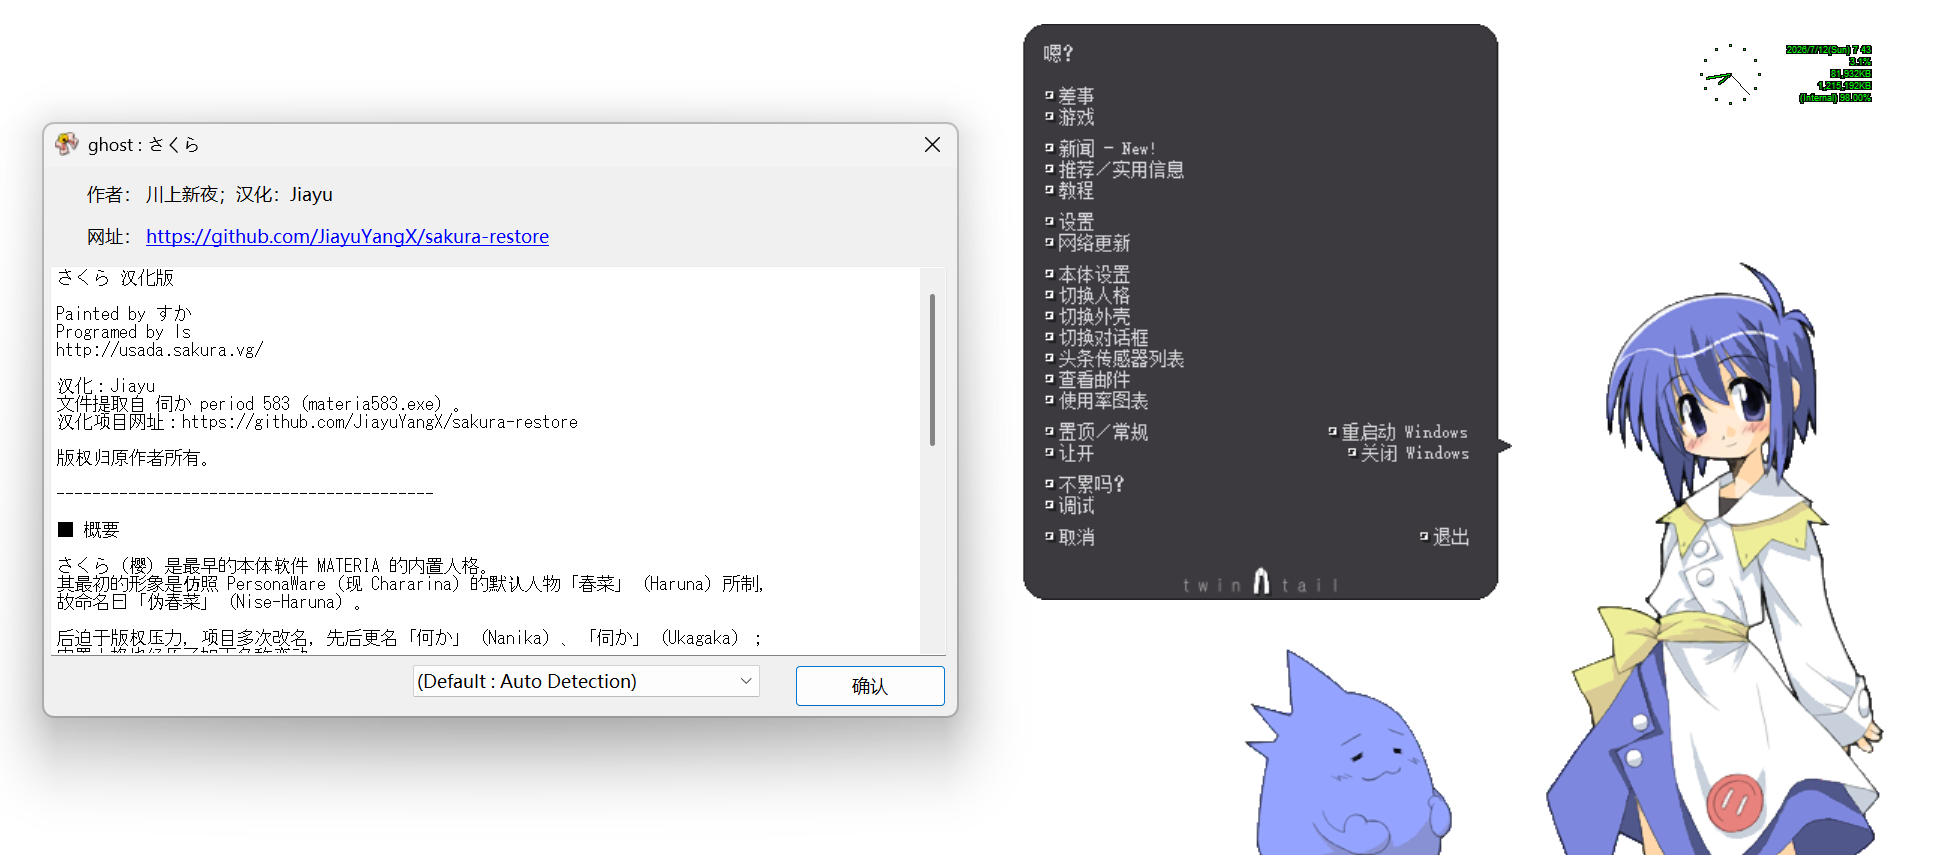
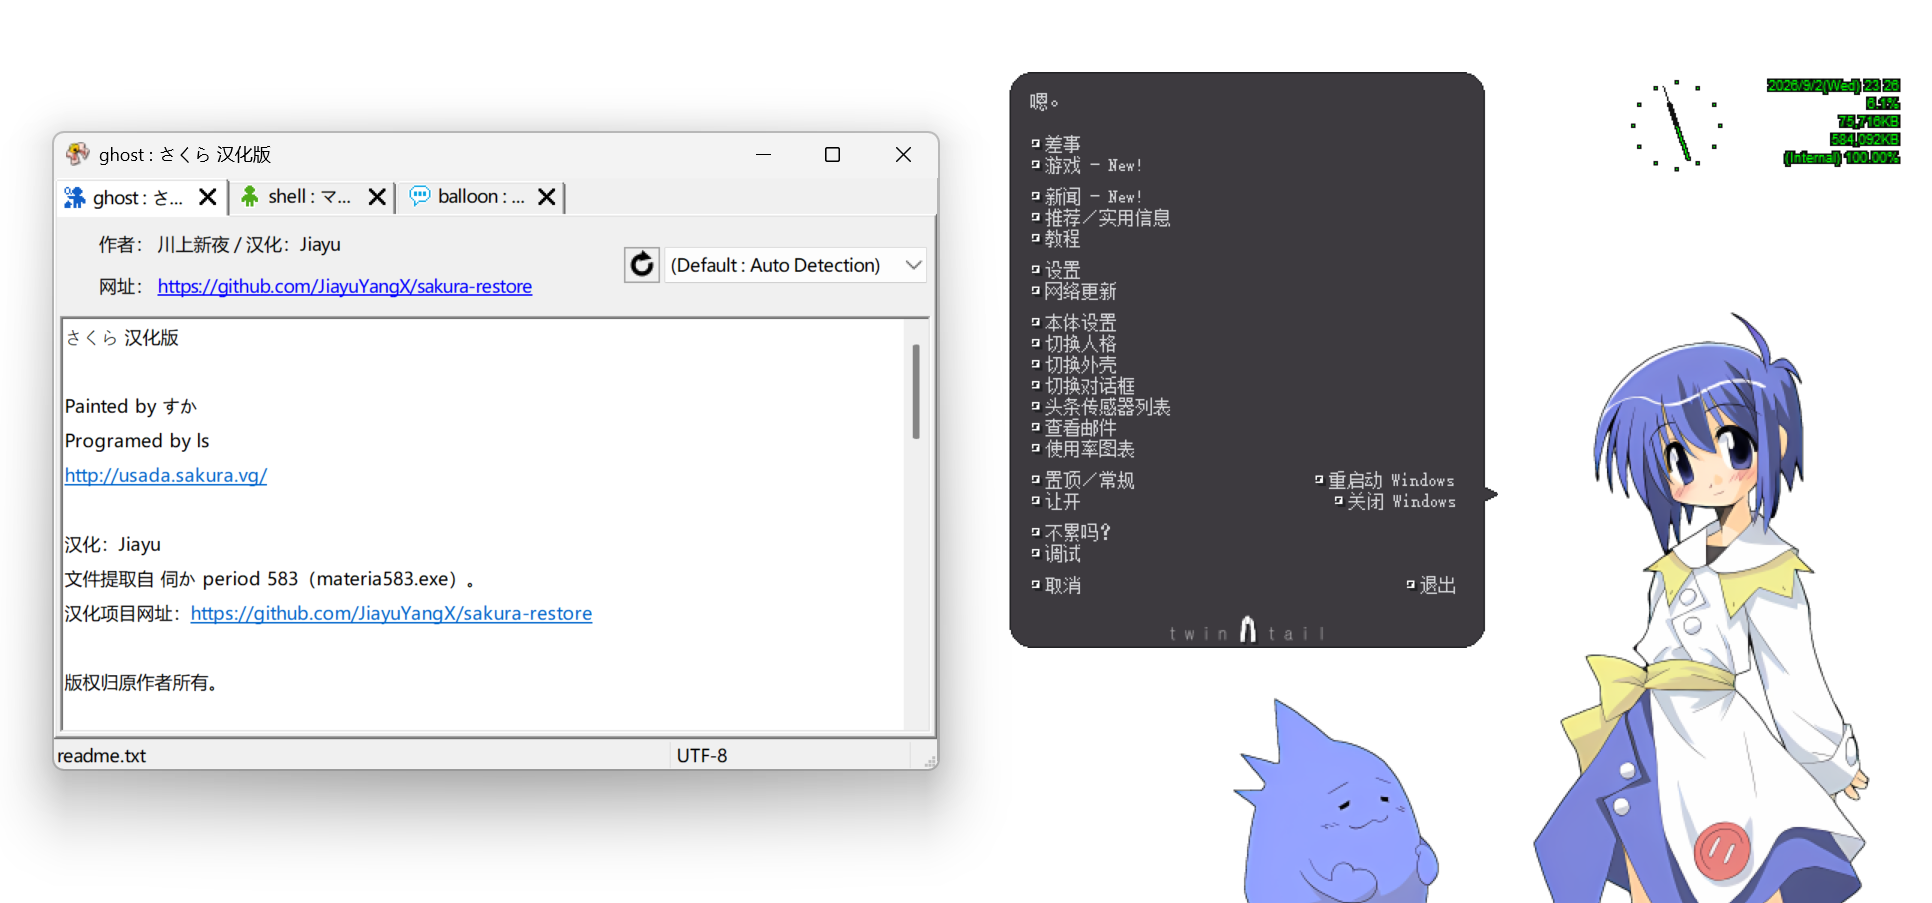
更新自述文档及图片

diff --git a/README.md b/README.md
@@ -4,7 +4,8 @@
 
 ![示意图](pic.png)
 
-人格文件请见 [ghost](https://github.com/JiayuYangX/sakura-restore/tree/ghost) 分支。
+人格文件请见 [ghost](https://github.com/JiayuYangX/sakura-restore/tree/ghost) 分支；
+外壳图片处理见 [shell](https://github.com/JiayuYangX/sakura-restore/tree/shell) 分支。
 
 ## 安装方法
 
@@ -20,13 +21,26 @@
 文件提取自 [伺か period 583](http://usada.sakura.vg/contents/files/materia583.exe)。
 原配布链接：<http://usada.sakura.vg/>
 
+### 汉化
+
 该人格的所有文本都被硬编码进 SHIORI（`first.dll`）中，其中绝大部分以明文形式存储。对话和菜单、提示文本位于 CODE 段，内置图形界面文本位于 rsrc 段。原来使用的 SJIS 编码文本在中文系统环境中运行会显示乱码，故直接将其替换为 GBK 译文（字节长度不超过原文）。
 
 然而仍有如环境变量等少数文本以自定义压缩格式存储在 rsrc 段的 AITXT 中。由于无法获取其压缩/解压算法，本项目采用翻译器接口（`makoto.dll`，遵循 MAKOTO/2.0 协议）在 SHIORI 返回该部分文本后对其 SJIS 字节进行匹配替换。
 
-由于仍采用硬编码形式，本汉化人格仅在中文系统环境下正常显示。
+### 图片修复
 
-人格仍需依赖原来的 `materia.exe` 才能正常运行，故将其置于 `ghost/master` 目录之下。另外去除外壳和对话框图片的纯色背景，现在使用图片自身透明通道。时钟和提示框未经过 SSP 缩放，在现代屏幕 DPI 下可能显得过小。
+外壳和对话框现均改为使用图片自身透明通道。外壳图片使用 [Real-ESRGAN](https://github.com/xinntao/Real-ESRGAN) 的 realesrgan-x4plus-anime 模型进行四倍放大；再使用 [ImageMagick](https://imagemagick.org) 透明填充红色背景、边缘 2 像素勾线后再缩放回原大小，可形成平滑自然的半透明边缘。
+
+### 兼容性修复
+
+人格需依赖原来的 `materia.exe` 才能正常运行，故将其置于 `ghost/master` 目录之下。硬编码字符串由原本的 Shift-JIS（932 代码页）字符集变为 GBK（936 代码页），可能仅在中文系统环境下（未启用 UTF-8 Beta 设置）正常显示。
+
+外壳和对话框在现代高 DPI 显示器上建议使用与系统相同的缩放比例；时钟和提示框未经过 SSP 缩放，可能显得过小。
+
+人格编写的时代旧 SHIORI 规范未完全实现 NOTIFY 方法，除部分特殊事件外仍基本使用 GET，`first.dll` 接到 NOTIFY 请求后会直接响应 `400 Bad Request`；现代 SHIORI 规范及 SSP 基础软件在 `caltalk=0` 时 `OnSecondChange` 事件严格使用 NOTIFY 进行通信，`first.dll` 拒绝响应导致状态机卡住，无法自动退出小睡（`mode2`）和入浴（`mode3`）状态，能量值累加也会停摆。
+
+故通过两步 DLL 修补解决相关问题：（1）禁用 `0x719E` 处 NOTIFY 的跳转使请求正常处理；（2）`0x79E08` 处 `\![enter,inductionmode]` 字段长度设为 0 取消进入诱导模式。
+
 
 ## 翻译流程
 
@@ -37,7 +51,9 @@
 5. 运行 `build.bat` 生成带替换表的 `makoto.dll`
 6. 部署后测试
 
-## 编译环境
+## 环境及工具
 
 - MSYS2 + `mingw-w64-i686-gcc`（32 位 MinGW）
 - Python 3.x
+- Real-ESRGAN-nccn-vulkan
+- ImageMagick
